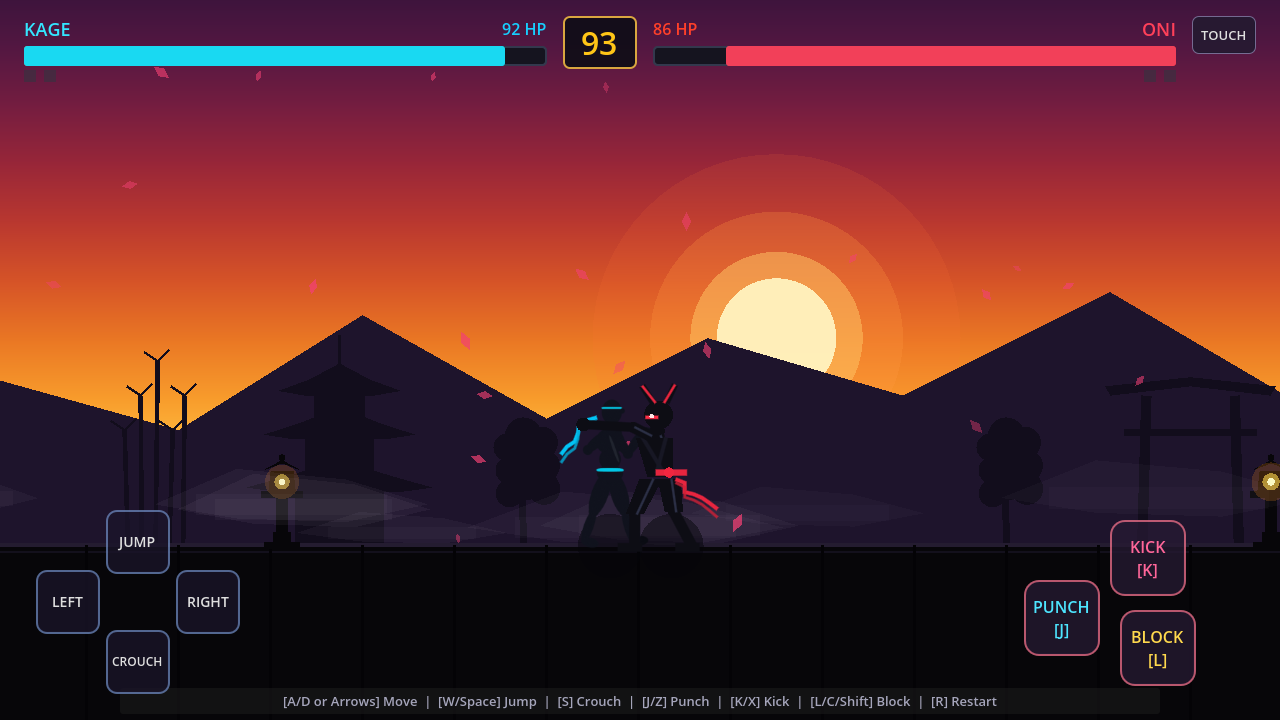
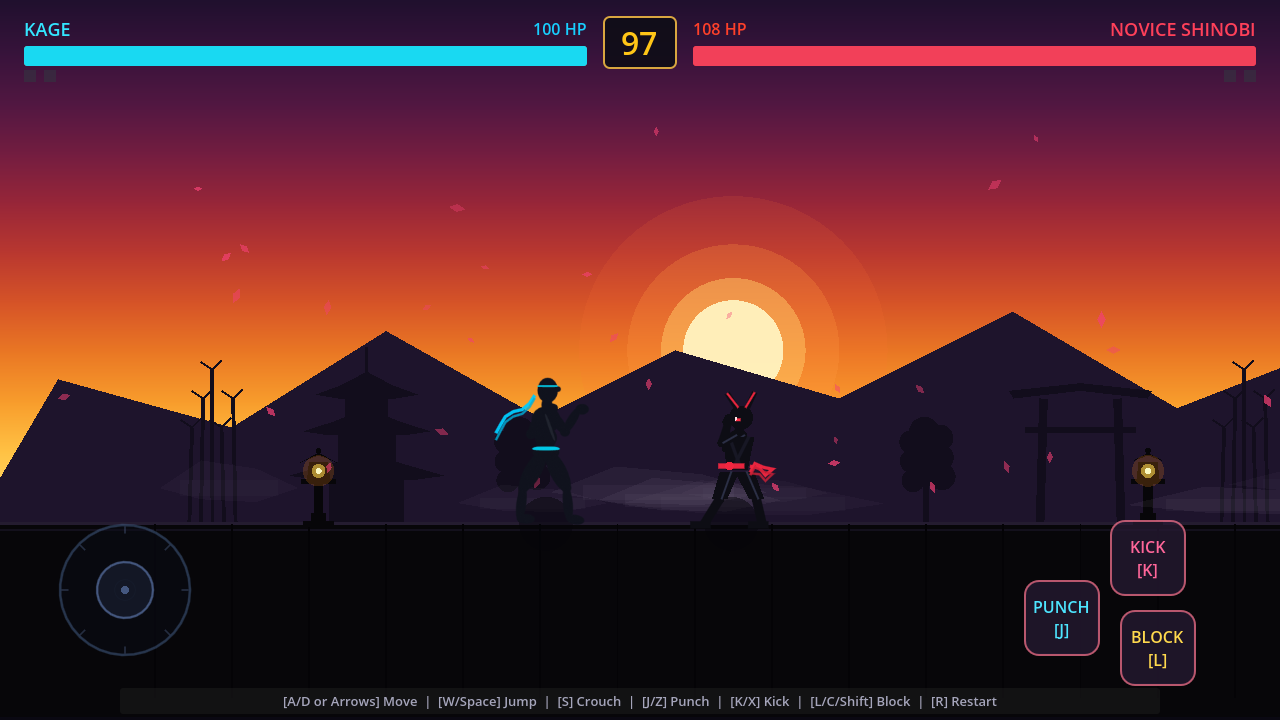
Verify Version 3 public campaign deployment

diff --git a/qa/test_public_deployment.js b/qa/test_public_deployment.js
@@ -49,14 +49,20 @@ const fs = require('fs');
   await page.screenshot({ path: ssPath });
   console.log('Captured public deployment screenshot:', ssPath);
 
-  // Send movement & attacks on the public deployment
-  console.log('Sending combat inputs to public game...');
+  // Verify the V3 campaign launch path and exchange combat inputs.
+  console.log('Launching a campaign duel on the public deployment...');
+  await page.mouse.click(640, 655); // Battle Map
+  await page.waitForTimeout(700);
+  await page.mouse.click(640, 225); // first available tournament fight
+  await page.waitForTimeout(600);
+  await page.mouse.click(725, 505); // Fight
+  await page.waitForTimeout(1400);
   await page.keyboard.press('KeyD');
-  await page.waitForTimeout(100);
+  await page.waitForTimeout(120);
   await page.keyboard.press('KeyJ');
-  await page.waitForTimeout(100);
+  await page.waitForTimeout(120);
   await page.keyboard.press('KeyJ');
-  await page.waitForTimeout(100);
+  await page.waitForTimeout(120);
   await page.keyboard.press('KeyK');
   await page.waitForTimeout(300);
 
